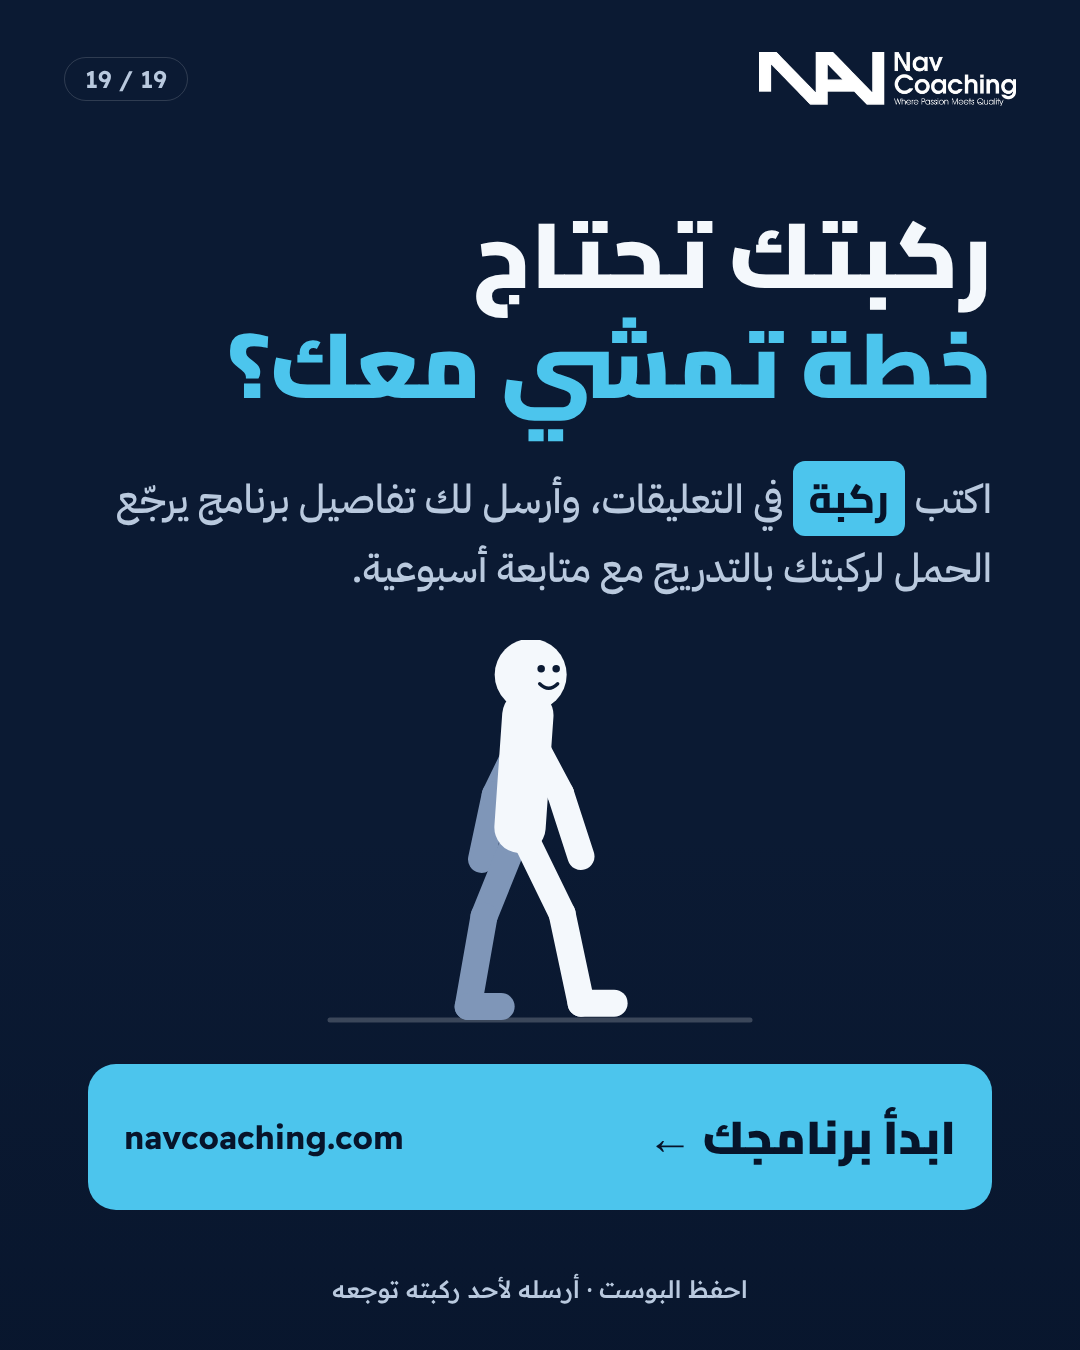
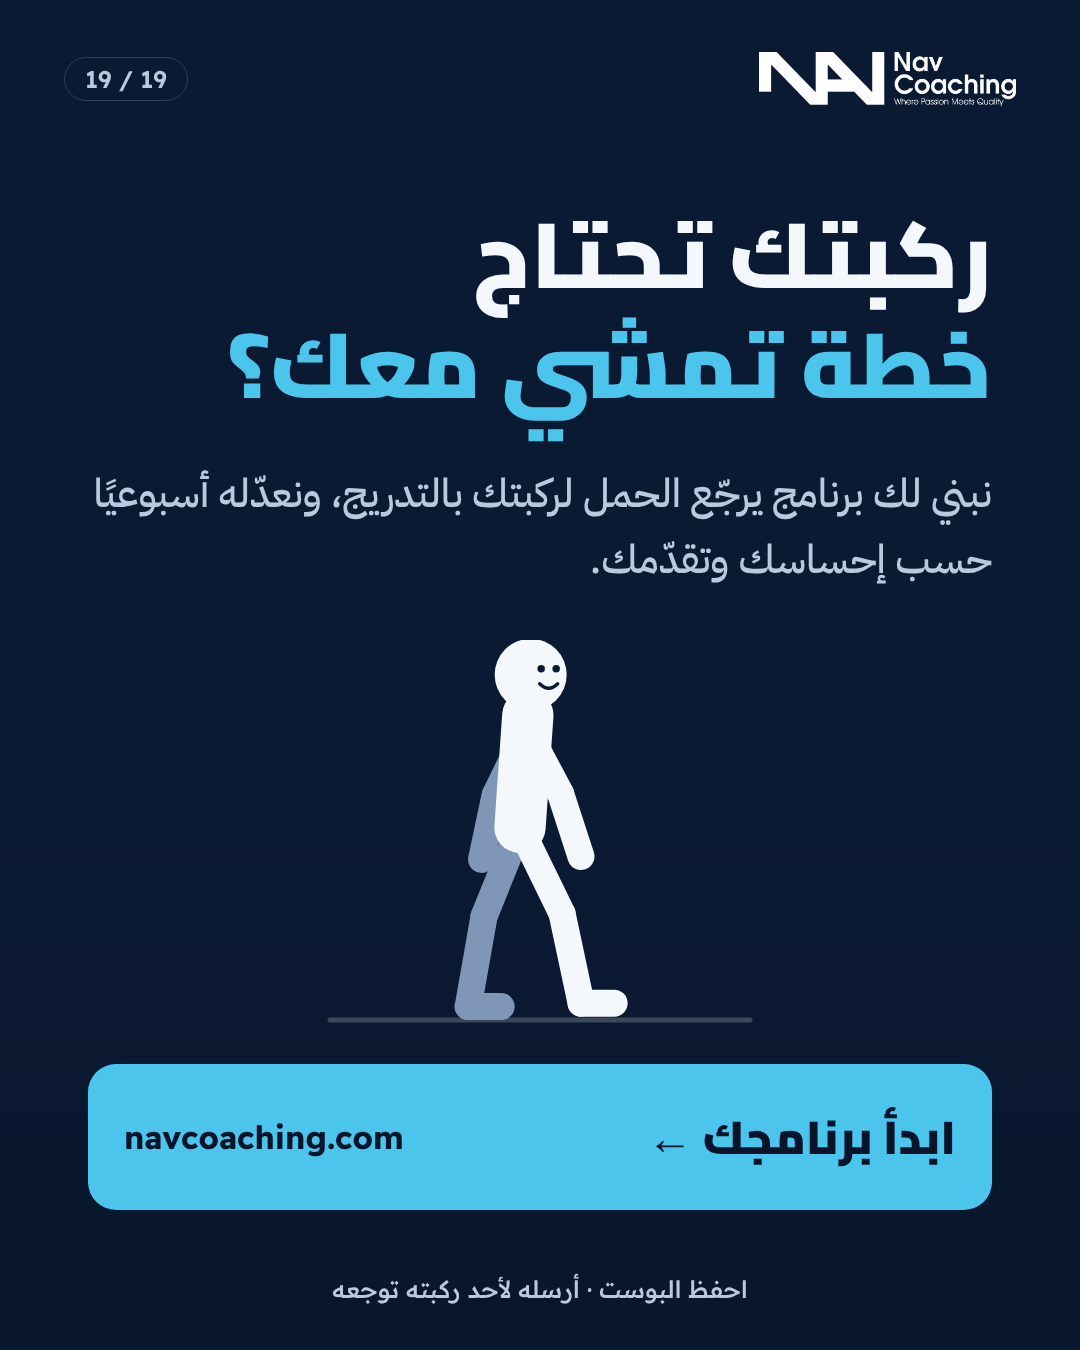
Knee carousel: closing slide and caption point to the website only
Claude-Session: https://claude.ai/code/session_014K8VAaJoHdbEmLTmDkRNee

Changed region(s): [[0.0917, 0.3422, 0.9167, 0.4356]]

diff --git a/instagram/knee/slides.html b/instagram/knee/slides.html
@@ -157,7 +157,7 @@ html+=`<section class="s"><div class="top">${LOGO}<span class="n">${N-1} / ${N}<
 <div class="foot">navcoaching.com</div></section>`;
 html+=`<section class="s"><div class="top">${LOGO}<span class="n">${N} / ${N}</span></div>
 <div class="big"><h1>ركبتك تحتاج<br><em>خطة تمشي معك؟</em></h1>
-<p style="margin-top:40px;font:500 40px/1.65 'IBM Plex Sans Arabic';color:#b9c9de">اكتب <b style="font:800 40px Cairo;color:#07142a;background:#4cc5ed;border-radius:12px;padding:0 16px">ركبة</b> في التعليقات، وأرسل لك تفاصيل برنامج يرجّع الحمل لركبتك بالتدريج مع متابعة أسبوعية.</p></div>
+<p style="margin-top:40px;font:500 40px/1.65 'IBM Plex Sans Arabic';color:#b9c9de">نبني لك برنامج يرجّع الحمل لركبتك بالتدريج، ونعدّله أسبوعيًا حسب إحساسك وتقدّمك.</p></div>
 <div class="art" style="top:640px;height:440px"><svg viewBox="0 0 1080 440">${floorLine(380,330,750)+figure({x:520,floor:380,t:4,legs:[[-22,-10],[26,12]],arms:[[-26,-12],[28,18]],mood:'happy',s:0.75,twoArms:1}).svg}</svg></div>
 <div class="cta"><b>ابدأ برنامجك ←</b><span>navcoaching.com</span></div>
 <div class="foot" style="color:#b9c9de">احفظ البوست · أرسله لأحد ركبته توجعه</div></section>`;
